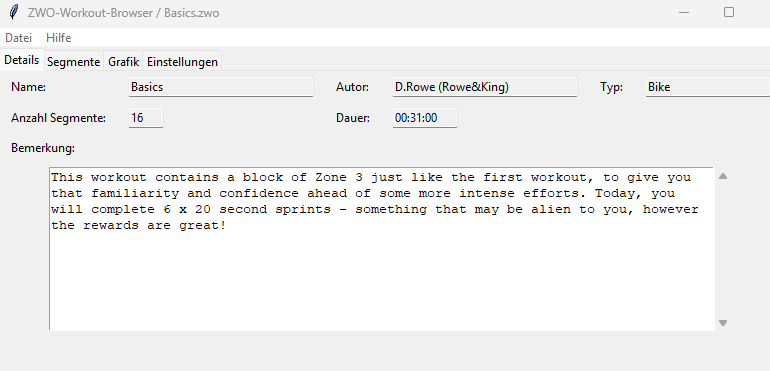
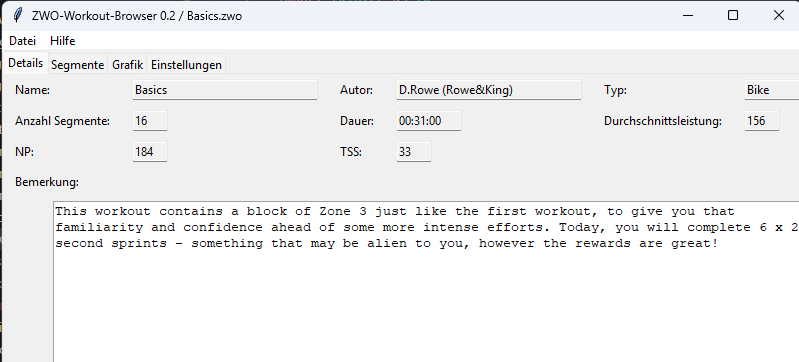
V0.2

diff --git a/src/WorkoutDisplayDetails.py b/src/WorkoutDisplayDetails.py
@@ -1,6 +1,7 @@
 import tkinter as tk
 from tkinter import ttk
 import tkinter.scrolledtext as scrolledtext
+from NormalizedAndAveragePower import NormalizedAndAveragePower
 
 class WorkoutDisplayDetails:
     def __init__(self, root):
@@ -18,10 +19,67 @@ class WorkoutDisplayDetails:
         self.add_segment_count()
         self.add_duration()
         self.add_description()
+        self.add_average_power()
+        self.add_normalized_power()
+        self.add_tss()
+        
+    def add_tss(self):
+        ttk.Label(self.__frame, 
+                  text="TSS:").grid(row=2, 
+                                   column=2, 
+                                   sticky='w', 
+                                   padx=10, 
+                                   pady=5)
+        self.__tss_var = tk.StringVar(value="")
+        self.__tss_entry = ttk.Entry(self.__frame, 
+                                     textvariable=self.__tss_var, 
+                                     width=5, 
+                                     state="readonly")
+        self.__tss_entry.grid(row=2, 
+                              column=3, 
+                              sticky='w', 
+                              padx=10, 
+                              pady=5)
 
+    def add_normalized_power(self):
+        ttk.Label(self.__frame, 
+                  text="NP:").grid(row=2, 
+                                   column=0, 
+                                   sticky='w', 
+                                   padx=10, 
+                                   pady=5)
+        self.__normalized_power_var = tk.StringVar(value="")
+        self.__normalized_power_entry = ttk.Entry(self.__frame, 
+                                                textvariable=self.__normalized_power_var, 
+                                                width=5, 
+                                                state="readonly")
+        self.__normalized_power_entry.grid(row=2, 
+                                           column=1, 
+                                           sticky='w', 
+                                           padx=10, 
+                                           pady=5)
+        
+    def add_average_power(self):
+        ttk.Label(self.__frame, 
+                  text="Durchschnittsleistung:").grid(row=1, 
+                                                      column=4, 
+                                                      sticky='w', 
+                                                      padx=10, 
+                                                      pady=5)
+        self.__avg_power_var = tk.StringVar(value="")
+        self.__avg_power_entry = ttk.Entry(self.__frame, 
+                                           textvariable=self.__avg_power_var, 
+                                           width=5, 
+                                           state="readonly")
+        self.__avg_power_entry.grid(row=1, 
+                                    column=5, 
+                                    sticky='w', 
+                                    padx=10, 
+                                    pady=5)
+        
     def add_description(self):
         ttk.Label(self.__frame, 
-                  text="Bemerkung:").grid(row=2, 
+                  text="Bemerkung:").grid(row=3, 
                                           column=0, 
                                           columnspan=2, 
                                           sticky='w', 
@@ -29,7 +87,7 @@ class WorkoutDisplayDetails:
                                           pady=5)
         # Frame für Bemerkungstext und Scrollbar
         remark_frame = ttk.Frame(self.__frame)
-        remark_frame.grid(row=3, 
+        remark_frame.grid(row=4, 
                           column=0, 
                           columnspan=6, 
                           padx=50, 
@@ -156,10 +214,18 @@ class WorkoutDisplayDetails:
                                 description if description != None else "")
         self.remark_text.config(state=tk.DISABLED)
 
-    def set_workout(self, workout):
+    def set_workout(self, workout, ftp):
         self.__name_var.set(workout.name)
         self.__author_var.set(workout.author)
         self.__type_var.set(workout.sportType.value)
         self.__seg_count_var.set(len(workout.segments))
         self.__duration_var.set(workout.get_duration_as_text())
         self.set_description(workout.description)
+
+        normalized_power, average_power = NormalizedAndAveragePower(workout).calculate(ftp)
+        self.__avg_power_var.set(average_power)
+        self.__normalized_power_var.set(normalized_power)
+        
+        intensitaetsfaktor = normalized_power / ftp
+        tss = round(( workout.duration * normalized_power * intensitaetsfaktor ) / ( ftp * 3600 ) * 100)
+        self.__tss_var.set(tss)

diff --git a/src/NormalizedAndAveragePower.py b/src/NormalizedAndAveragePower.py
@@ -1,0 +1,61 @@
+import numpy as np
+from ZwoWorkout import ZwoWorkout
+from EnumSegmentType import SegmentType
+
+class NormalizedAndAveragePower:
+    def __init__(self, workout: ZwoWorkout):
+        self.workout = workout
+        
+    def calculate(self,ftp: int):
+        """
+        Berechnet die Normalized Power aus einer Liste von (Leistung, Dauer)-Paaren.
+    
+        Schritte zur Berechnung der Normalized Power:
+        1. Konvertiere die Daten in eine Sekunden-für-Sekunden-Zeitreihe
+        2. Berechne den rollenden 30-Sekunden-Durchschnitt der Leistungswerte
+        3. Nehme die vierte Potenz jedes geglätteten Leistungswerts
+        4. Berechne den Durchschnitt dieser Werte
+        5. Nehme die vierte Wurzel dieses Durchschnitts
+    
+        Returns:
+            normalized_power: Die normalisierte Leistung in Watt
+            average_power: Die durchschnittliche Leistung in Watt
+        """
+        # Schritt 1: Konvertiere Daten in Sekunden-für-Sekunden-Zeitreihe
+        power_series = []
+    
+        for segment in self.workout.segments:
+            match segment.get_segment_type():
+                case SegmentType.STEADYSTATE:
+                    power_series.extend([segment.get_power().get_start_power_for_ftp(ftp)] * segment.get_duration())
+                case SegmentType.WARMUP | SegmentType.RAMP | SegmentType.COOLDOWN:
+                    anzahlStufen = int(abs(segment.get_power().get_start_power_for_ftp(ftp) - segment.get_power().get_end_power_for_ftp(ftp)) / 5 + 1)
+                    startZahl = min(segment.get_power().get_start_power_for_ftp(ftp), segment.get_power().get_end_power_for_ftp(ftp))
+                    dauer = int(segment.get_duration() / anzahlStufen)
+                    for i in range(anzahlStufen + 1):  # +1 weil wir auch den Startwert benötigen
+                        aktueller_wert = startZahl + i * 5
+                        power_series.extend([aktueller_wert] * dauer)
+                #case SegmentType.FREE, :
+                case SegmentType.INTERVALST:
+                    for interval in range(segment.get_repeat()):
+                        power_series.extend([segment.get_power().get_start_power_for_ftp(ftp)] * segment.get_duration())
+                        power_series.extend([segment.get_power().get_end_power_for_ftp(ftp)] * segment.get_duration())
+    
+        power_array = np.array(power_series)
+    
+        # Berechne durchschnittliche Leistung
+        average_power = np.mean(power_array)
+    
+        # Schritt 2: Berechne rollenden 30-Sekunden-Durchschnitt
+        window_size = 30
+        rolling_avg = np.convolve(power_array, np.ones(window_size)/window_size, mode='valid')
+    
+        # Schritt 3 & 4: Nehme die vierte Potenz und berechne den Durchschnitt
+        fourth_power_avg = np.mean(rolling_avg ** 4)
+    
+        # Schritt 5: Nehme die vierte Wurzel
+        normalized_power = np.power(fourth_power_avg, 0.25)
+        normalized_power = round(normalized_power)
+        average_power = round(average_power)
+    
+        return normalized_power, average_power

diff --git a/src/Power.py b/src/Power.py
@@ -9,11 +9,41 @@ class Power:
     def get_as_text(self, ftp :int):
         """ Returns the power targets as a string """
         if self.start_power != 0 and self.end_power != 0 and self.start_power != self.end_power: 
-            result = f"{int(float(self.start_power) * float(ftp))} - {int(float(self.end_power) * float(ftp))}"
+            #result = f"{int(float(self.start_power) * float(ftp))} - {int(float(self.end_power) * float(ftp))}"
+            result = f"{Power.round_to_five(float(self.start_power) * float(ftp))} - {Power.round_to_five(float(self.end_power) * float(ftp))}"
         elif self.start_power != 0:
-            result = f"{int(float(self.start_power) * float(ftp))}"    
+            result = f"{Power.round_to_five(float(self.start_power) * float(ftp))}"    
         elif self.end_power != 0:
-            result = f"{int(float(self.end_power) * float(ftp))}"
+            result = f"{Power.round_to_five(float(self.end_power) * float(ftp))}"
         else:
             result = ""
         return result
+    
+    def round_to_five(zahl):
+        """
+        Rundet eine Fließkommazahl kaufmännisch auf ein Vielfaches von 5.
+        
+        Args:
+            zahl (float): Die zu rundende Fließkommazahl
+        
+        Returns:
+            int: Die kaufmännisch auf ein Vielfaches von 5 gerundete Ganzzahl
+        """
+        # Division durch 5, um das Problem auf Rundung auf Ganzzahlen zu reduzieren
+        quotient = zahl / 5
+        
+        # Kaufmännische Rundung (round() in Python verwendet Banker's Rounding)
+        gerundeter_quotient = round(quotient)
+        
+        # Zurückmultiplizieren mit 5
+        ergebnis = gerundeter_quotient * 5
+        
+        return int(ergebnis)
+    
+    def get_start_power_for_ftp(self, ftp :int):
+        """ Returns the start power target as a percentage of FTP """
+        return Power.round_to_five(float(self.start_power) * float(ftp))
+    
+    def get_end_power_for_ftp(self, ftp :int):
+        """ Returns the end power target as a percentage of FTP """
+        return Power.round_to_five(float(self.end_power) * float(ftp))

diff --git a/src/WorkoutDisplayGraph.py b/src/WorkoutDisplayGraph.py
@@ -175,6 +175,7 @@ class WorkoutDisplayGraph:
         self.parameters.max_x = int(workout.duration / 60)
         self.parameters.max_y = int(workout.max_power * ftp)
         self.parameters.min_watt = min_watt
+        self.parameters.max_cadence = workout.get_max_cadence()
         self.parameters.canvas.delete('all')
         self.workout = workout
         self.parameters.ftp = ftp
@@ -185,8 +186,8 @@ class WorkoutDisplayGraph:
         for segment in workout.segments:
             if segment.get_segment_type() == SegmentType.INTERVALST:
                 for i in range(segment.get_repeat()):
-                    on_power = int(segment.get_power().start_power * ftp)
-                    off_power = int(segment.get_power().end_power * ftp)
+                    on_power = int(segment.get_power().get_start_power_for_ftp(ftp))
+                    off_power = int(segment.get_power().get_end_power_for_ftp(ftp))
                     tags = [f"Dauer: {segment.get_on_duration_as_text()}",]
                     tags.append(f"Leistung: {on_power}")
                     if segment.get_cadence() > 0:
@@ -206,8 +207,8 @@ class WorkoutDisplayGraph:
                                          segment.get_cadence(), 
                                          workout.get_max_cadence())
             else:
-                start_power = int(segment.get_power().start_power * ftp)
-                end_power = int(segment.get_power().end_power * ftp)
+                start_power = int(segment.get_power().get_start_power_for_ftp(ftp))
+                end_power = int(segment.get_power().get_end_power_for_ftp(ftp))
 
                 tags = [f"Dauer: {segment.get_duration_as_text()}",]
                 if segment.get_power().start_power == segment.get_power().end_power:

diff --git a/src/CoordinateSystem.py b/src/CoordinateSystem.py
@@ -53,10 +53,10 @@ class CoordinateSystem:
                                                self.parameters.rand + 5, 
                                                y)
             
-            self.parameters.canvas.create_text(self.parameters.rand - 40, 
-                                               self.parameters.hoehe/2, 
-                                               text="Watt", 
-                                               angle=90)
+        self.parameters.canvas.create_text(self.parameters.rand - 40, 
+                                           self.parameters.hoehe/2, 
+                                           text="Watt", 
+                                           angle=90)
         
     def plot_z_axsis(self):
         # Z-Achse
@@ -77,10 +77,10 @@ class CoordinateSystem:
                                                self.parameters.rand + self.parameters.breite + 10 + 5, 
                                                y)
             
-            self.parameters.canvas.create_text(self.parameters.rand + self.parameters.breite + 40,
-                                               self.parameters.hoehe / 2,
-                                               text="Cadence",
-                                               angle=270)
+        self.parameters.canvas.create_text(self.parameters.rand + self.parameters.breite + 40,
+                                           self.parameters.hoehe / 2,
+                                           text="Cadence",
+                                           angle=270)
             
     def plot_ftp_line(self):
         #Line für FTP

diff --git a/src/MainDialog.py b/src/MainDialog.py
@@ -27,7 +27,7 @@ class MainDialog:
         self.workout = None
         
         self.programm_titel = "ZWO-Workout-Browser"
-        version = '0.1'
+        version = '0.2'
         self.programm_titel = self.programm_titel + " " + version
 
         self.root = root

diff --git a/src/NotebookWorkoutDetails.py b/src/NotebookWorkoutDetails.py
@@ -10,4 +10,4 @@ class NotebookWorkoutDetails:
         return self.__frame
         
     def set_workout(self, workout, ftp, min_watt):
-        self.__details.set_workout(workout)
+        self.__details.set_workout(workout, ftp)

diff --git a/README.md b/README.md
@@ -5,12 +5,18 @@
 <p></p>
 <p>List of workoutsegments</p>
 <img src="./Segments.png" alt="Page with Segments">
-p></p>
+<p></p>
 <p>Workoutgraphic</p>
 <img src="./Grafic.png" alt="Page with Grafic">
-p></p>
+<p></p>
 <p>Page with options</p>
 <img src="./Options.png" alt="Page with Options">
+<h3>Version 0.2</h3>
+<ul>
+  <li>added calculatet field for NP</li>
+  <li>added calculatet field for average Power</li>
+  <li>added calculatet field for TSS</li>
+</ul>
 <h3>Version 0.1</h3>
 <ul>
   <li>added line for FTP in graphic</li>
